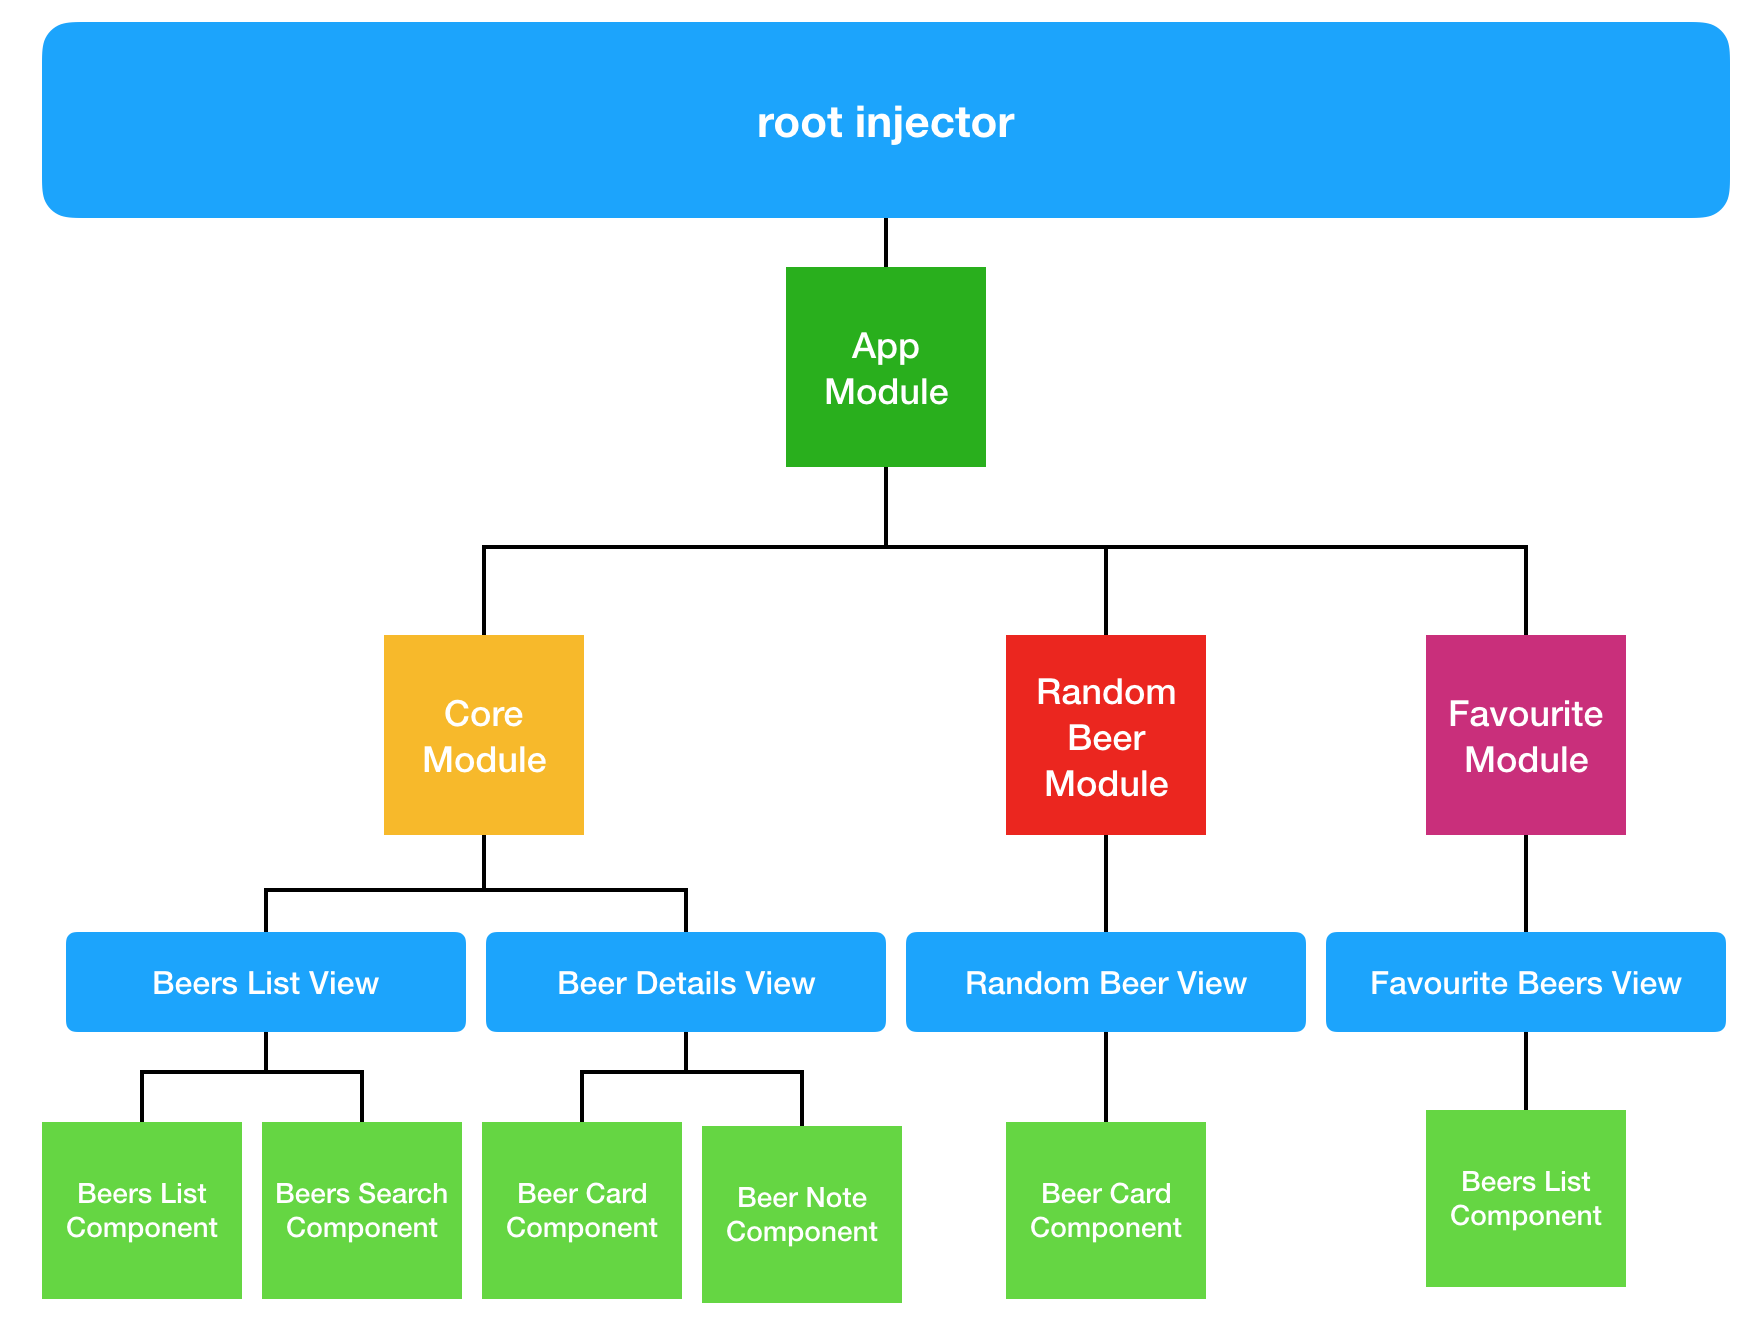
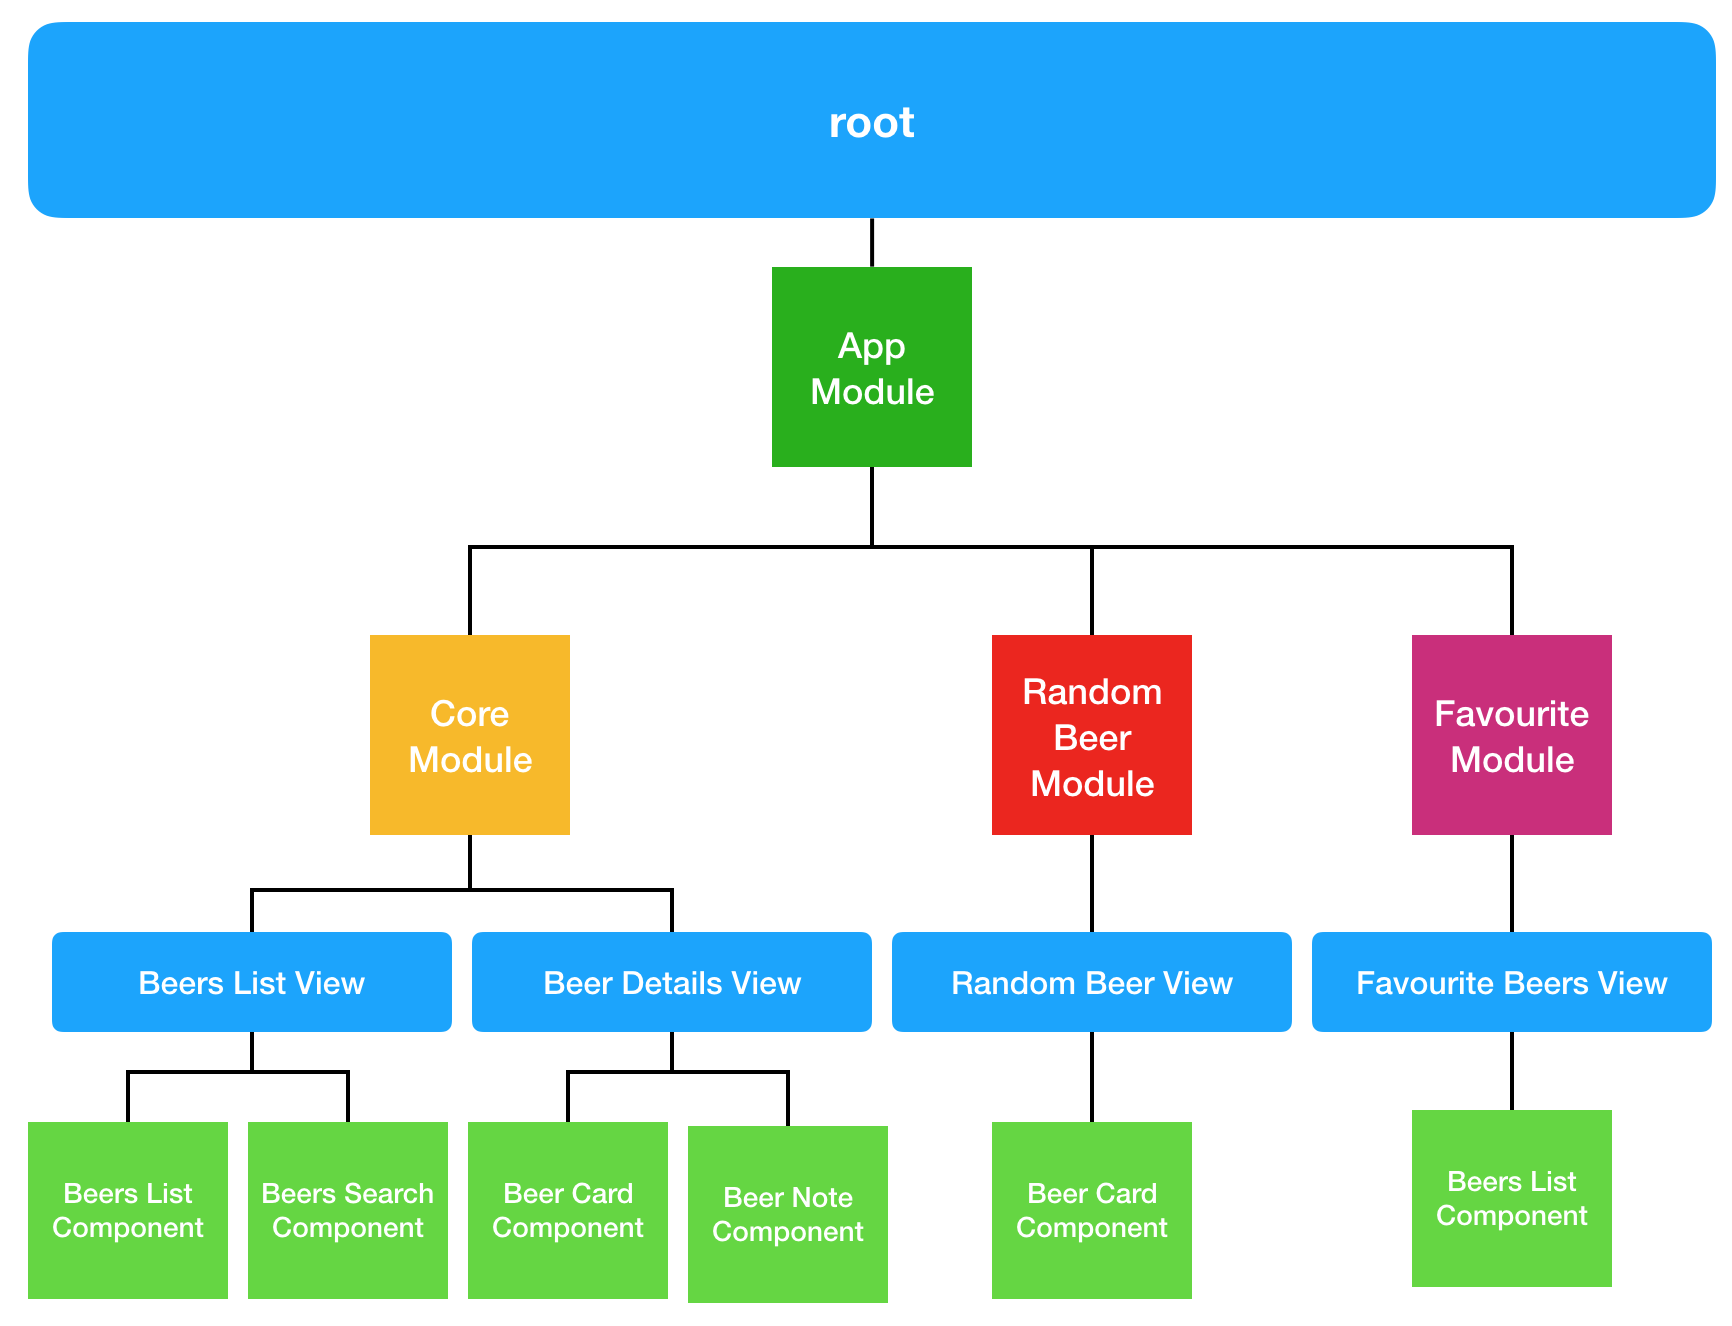
Updates di.md
Auto commit by GitBook Editor

diff --git a/di.md b/di.md
@@ -2,7 +2,7 @@
 
 ![](/assets/injectors tree.png)
 
-![](/assets/modules providers.png)
+![](/assets/modules and root injector.png)
 
 ---
 
